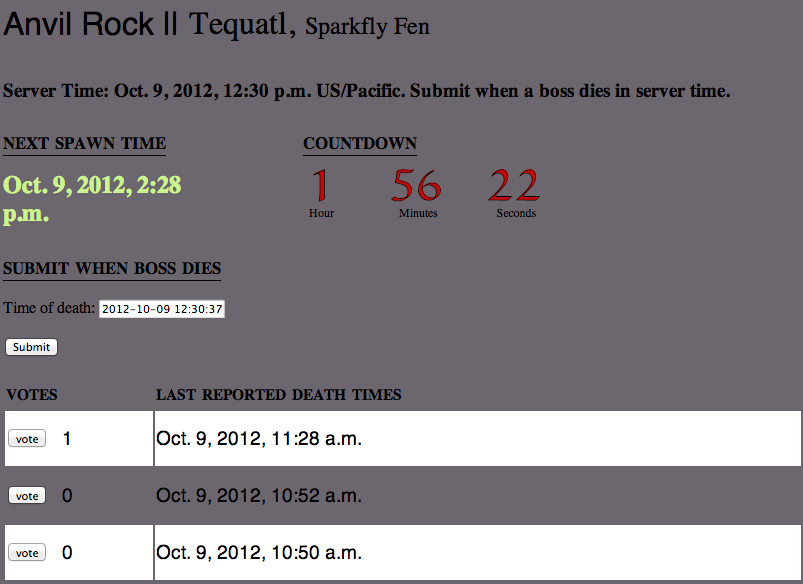
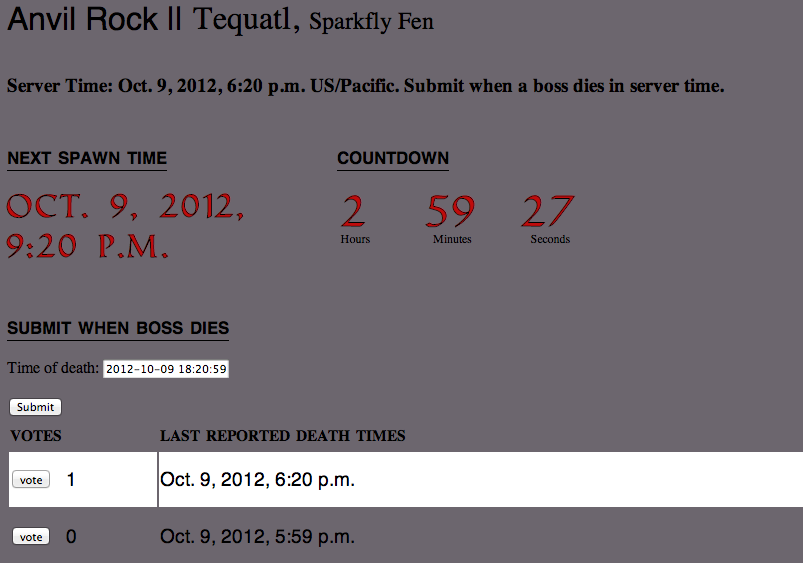
Updated the screenshot

diff --git a/bossspawns/static/css/main.css b/bossspawns/static/css/main.css
@@ -149,7 +149,7 @@ p.not-logged-in {
 #next-spawn > div {
     position: relative;
     float: left;
-    margin: 20px 0px 50px 0px;
+    margin: 20px 0px 0px 0px;
     width: 300px;
 }
 
